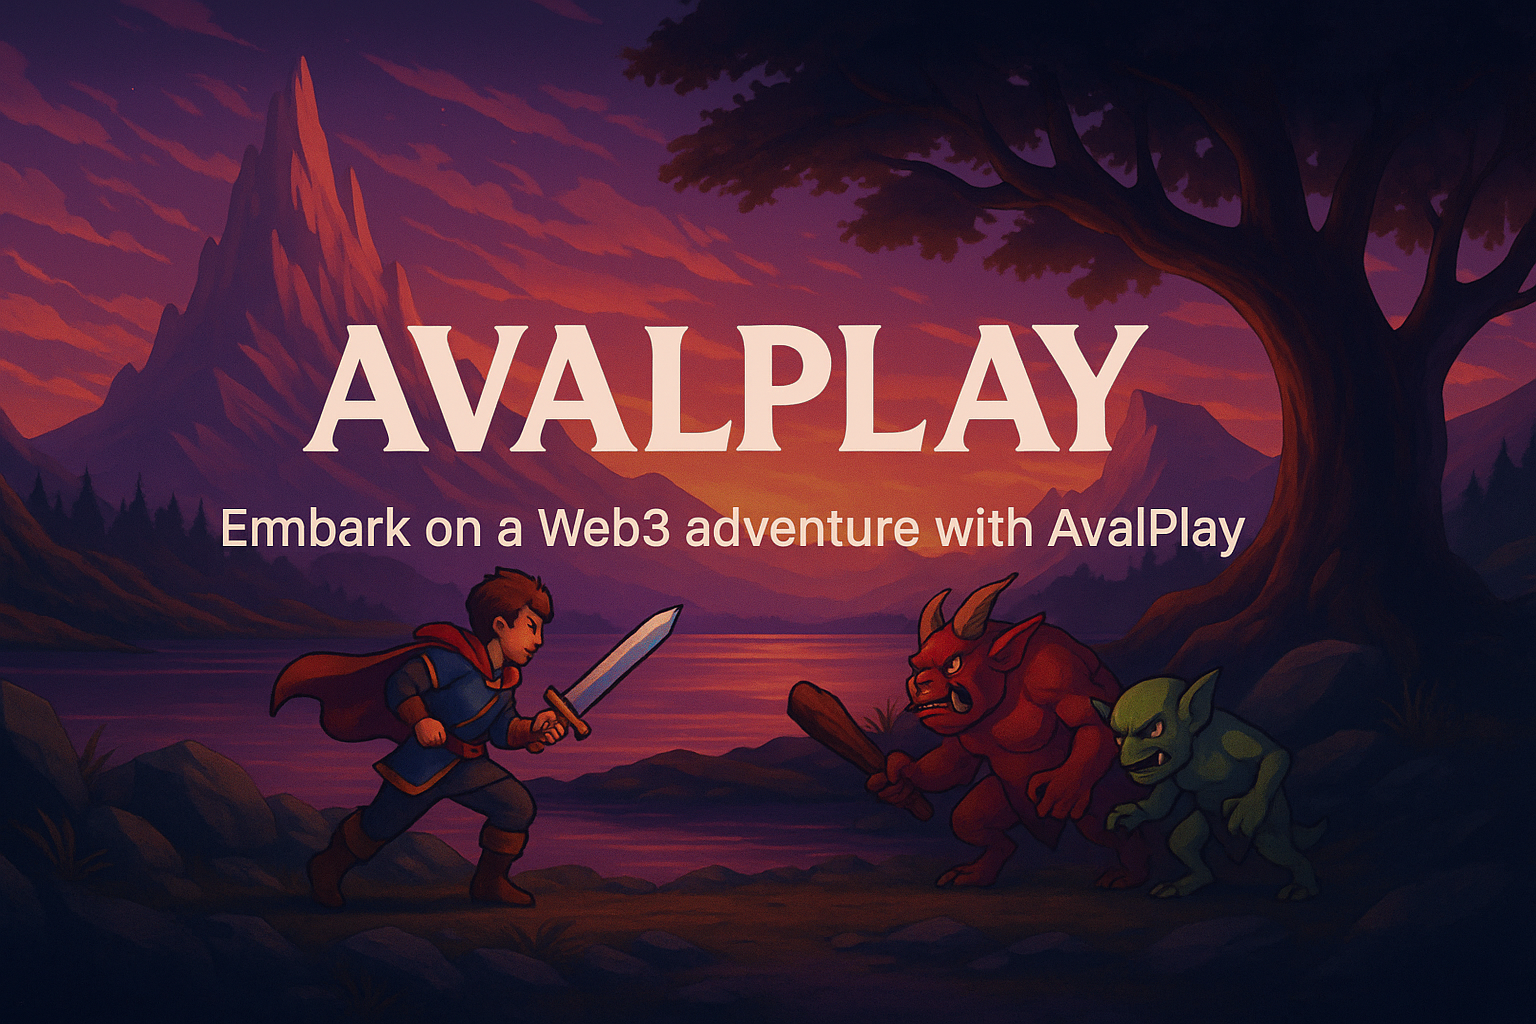
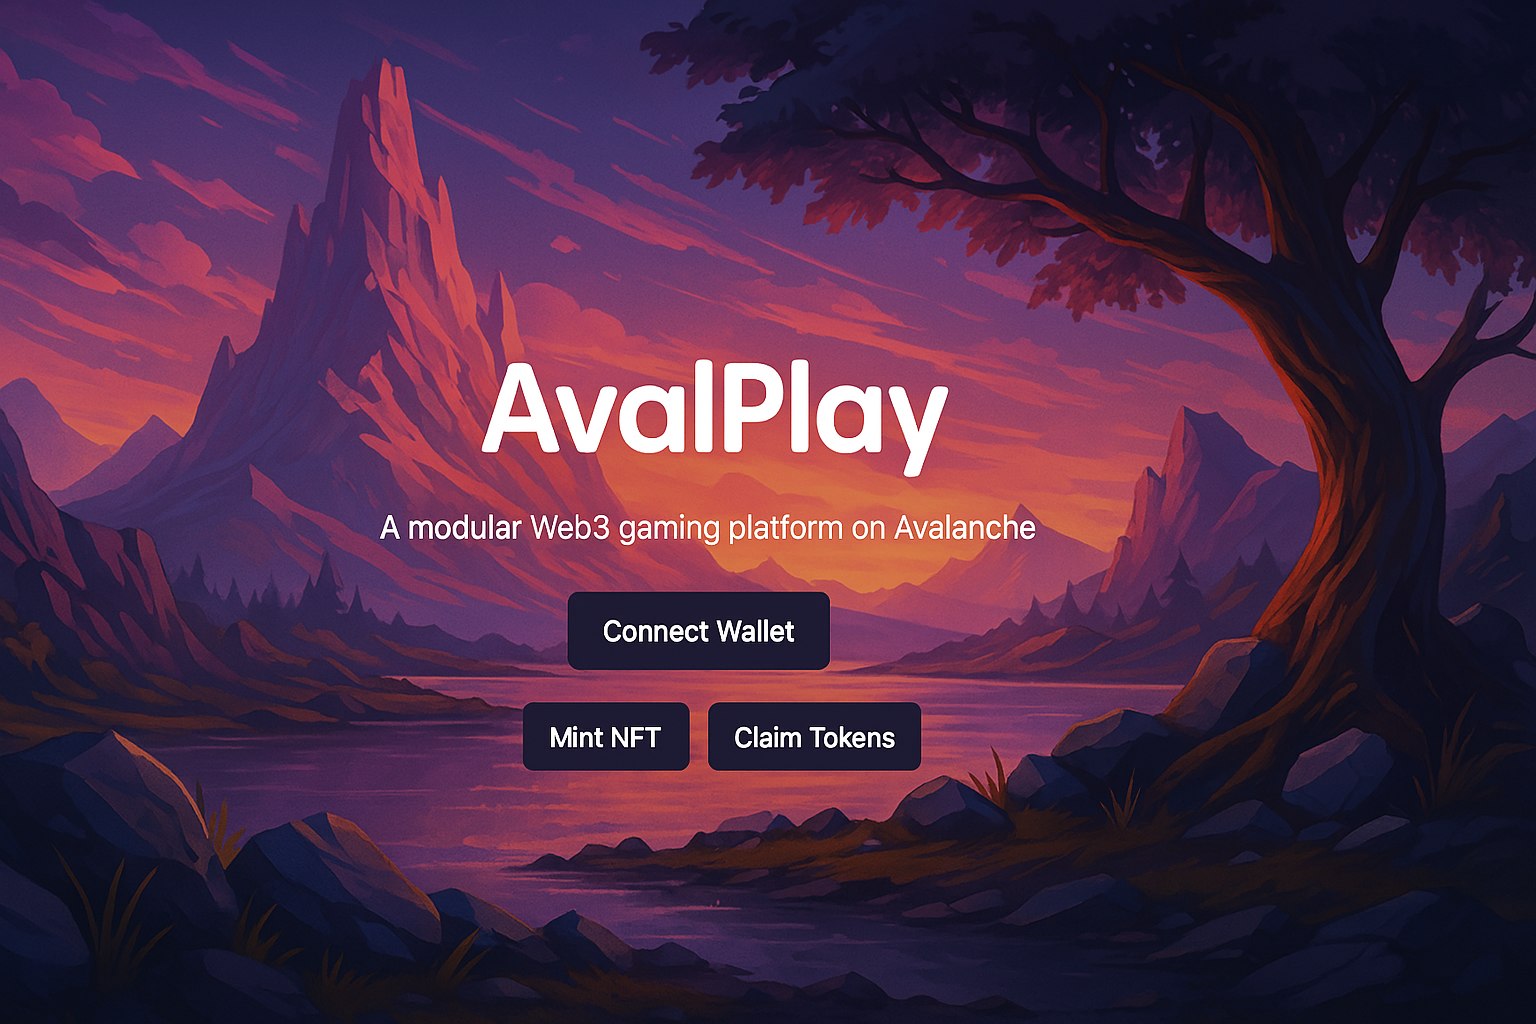
Add files via upload

diff --git a/index.html b/index.html
@@ -1,142 +1,86 @@
+
 <!DOCTYPE html>
-<html lang="en">
+<html lang="pt-br">
 <head>
   <meta charset="UTF-8" />
-  <meta name="viewport" content="width=device-width, initial-scale=1.0" />
-  <title>AvalPlay - Web3 RPG</title>
-  <link href="https://fonts.googleapis.com/css2?family=Orbitron:wght@500;700&display=swap" rel="stylesheet">
-  <script src="https://cdn.jsdelivr.net/npm/web3@latest/dist/web3.min.js"></script>
+  <meta name="viewport" content="width=device-width, initial-scale=1.0"/>
+  <title>AvalPlay - Web3 Game Platform</title>
   <style>
     body {
       margin: 0;
-      font-family: 'Orbitron', sans-serif;
-      background: url('images/3cda8abe-8320-41c1-8280-600eb0f7eb7c.png') no-repeat center center fixed;
+      font-family: Arial, sans-serif;
+      background-image: url('background.png');
       background-size: cover;
+      background-position: center;
       color: white;
-      overflow-x: hidden;
-      position: relative;
-    }
-
-    .overlay {
-      position: fixed;
-      top: 0; left: 0;
-      width: 100%;
-      height: 100%;
-      background: rgba(0, 0, 0, 0.5);
-      z-index: 0;
-    }
-
-    .hero {
-      height: 100vh;
-      display: flex;
-      flex-direction: column;
-      align-items: center;
-      justify-content: center;
       text-align: center;
-      padding: 2rem;
-      position: relative;
-      z-index: 1;
     }
-
+    .container {
+      padding: 60px 20px;
+      background-color: rgba(0, 0, 0, 0.5);
+    }
     h1 {
-      font-size: 3rem;
-      text-shadow: 0 0 10px #ff00cc;
+      font-size: 2.5em;
+      margin-bottom: 10px;
     }
-
     p {
-      font-size: 1.2rem;
-      margin-top: 1rem;
-      max-width: 600px;
+      font-size: 1.2em;
+      margin-bottom: 30px;
     }
-
-    .btn {
-      margin-top: 2rem;
-      padding: 1rem 2rem;
-      font-size: 1rem;
+    .button-group {
+      display: flex;
+      justify-content: center;
+      gap: 20px;
+      flex-wrap: wrap;
+      margin-top: 30px;
+    }
+    .button-group button {
+      padding: 12px 24px;
+      font-size: 16px;
       border: none;
-      border-radius: 8px;
-      background: linear-gradient(90deg, #e20074, #9c27b0);
+      background-color: #e84142;
       color: white;
+      border-radius: 8px;
       cursor: pointer;
       transition: 0.3s;
-      box-shadow: 0 0 10px #ff00cc;
     }
-
-    .btn:hover {
-      transform: scale(1.05);
-      box-shadow: 0 0 20px #ff00cc;
-    }
-
-    .footer {
-      text-align: center;
-      padding: 2rem;
-      font-size: 0.9rem;
-      background-color: rgba(0,0,0,0.6);
-      position: relative;
-      z-index: 1;
-    }
-
-    @media (max-width: 768px) {
-      h1 { font-size: 2rem; }
-      p { font-size: 1rem; }
+    .button-group button:hover {
+      background-color: #ff5b5b;
     }
   </style>
 </head>
 <body>
-  <div class="overlay"></div>
-  <div class="hero">
-    <h1>Embark on your Web3 Adventure with AvalPlay</h1>
-    <p>Connect your wallet and interact with an epic RPG experience powered by blockchain.</p>
-    <button class="btn" onclick="connectWallet()">Connect Wallet</button>
-    <button class="btn" onclick="mintNFT()">Mint NFT</button>
+  <div class="container">
+    <h1>AvalPlay - Web3 Game Platform</h1>
+    <p>Conecte sua carteira e interaja com o jogo!</p>
+    <div class="button-group">
+      <button onclick="connectWallet()">Conectar Carteira</button>
+      <button onclick="mintNFT()">Mintar NFT</button>
+      <button onclick="claimTokens()">Claim Tokens</button>
+    </div>
   </div>
-  <div class="footer">
-    &copy; 2025 AvalPlay. All rights reserved.
-  </div>
-
   <script>
-    let userAccount;
-
     async function connectWallet() {
       if (window.ethereum) {
         try {
-          const accounts = await window.ethereum.request({ method: 'eth_requestAccounts' });
-          userAccount = accounts[0];
-          alert('Wallet connected: ' + userAccount);
+          await ethereum.request({ method: 'eth_requestAccounts' });
+          alert('Carteira conectada!');
         } catch (error) {
-          alert('Connection failed: ' + error.message);
+          console.error(error);
         }
       } else {
-        alert('Please install MetaMask to connect.');
+        alert('MetaMask não encontrada!');
       }
     }
 
     async function mintNFT() {
-      if (!userAccount) {
-        alert('Please connect your wallet first.');
-        return;
-      }
+      alert('Função de mint de NFT chamada.');
+      // implementar lógica real
+    }
 
-      const contractAddress = '0xYourContractAddressHere';
-      const abi = [
-        {
-          "inputs": [],
-          "name": "mint",
-          "outputs": [],
-          "stateMutability": "nonpayable",
-          "type": "function"
-        }
-      ];
-
-      const web3 = new Web3(window.ethereum);
-      const contract = new web3.eth.Contract(abi, contractAddress);
-
-      try {
-        await contract.methods.mint().send({ from: userAccount });
-        alert('NFT minted successfully!');
-      } catch (error) {
-        alert('Minting failed: ' + error.message);
-      }
+    async function claimTokens() {
+      alert('Função de claim de tokens chamada.');
+      // implementar lógica real
     }
   </script>
 </body>
